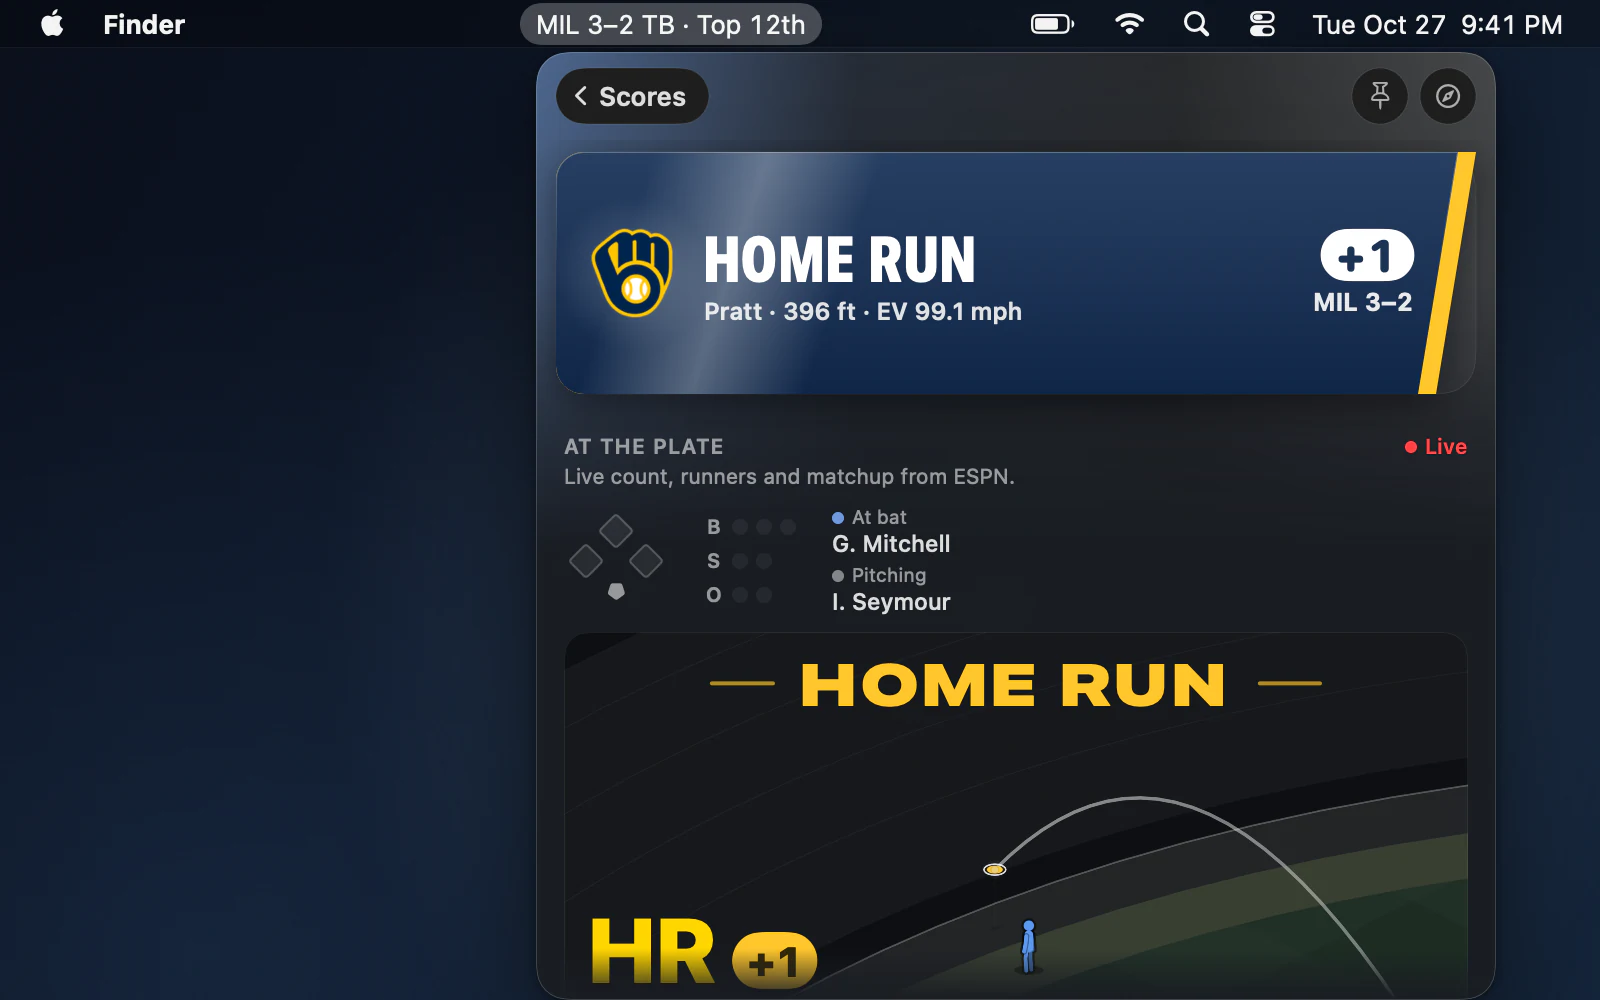
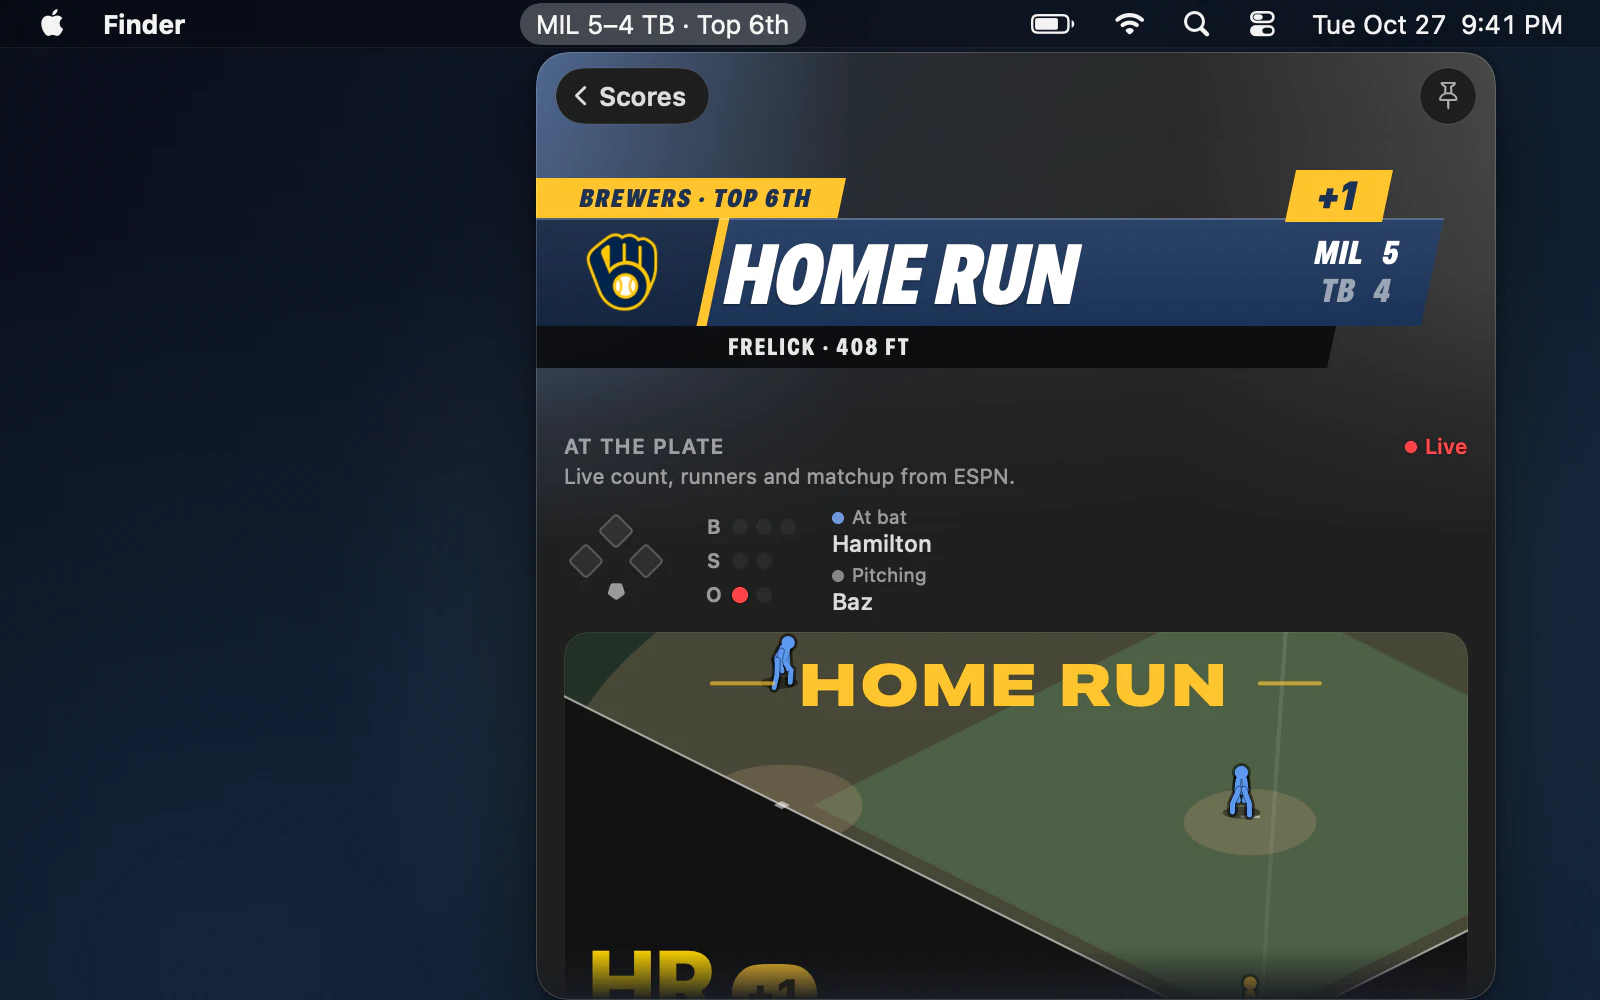
README: the scoring slide as a lower third
New screenshots of the slide (the tile and the page) from the app's own
renders, and the words to match.

Claude-Session: https://claude.ai/code/session_018S3HquSibFAw8QwmugU4Um

diff --git a/README.md b/README.md
@@ -46,11 +46,11 @@ Every play comes back to life in a small isometric view the moment it happens: t
 
 ## The scoring slide
 
-When a team scores, a bar in its colors slides in from its side of the page: its logo, a headline you can read from across the room (HOME RUN, GRAND SLAM, TOUCHDOWN, GOAL, BUZZER-BEATER, MAP WON) and who and how, straight from the feeds: "Pratt · 396 ft · EV 99.1 mph". It lands at the isometric view's climax, as the ball clears the fence or crosses the line, for runs, touchdowns, goals, the NBA's decisive baskets, CS2 maps and climbing tops.
+When a team scores, a broadcast lower third wipes in from its side of the page, in its colors: who and when (BREWERS · TOP 6TH), its logo, a headline you can read from across the room (HOME RUN, GRAND SLAM, TOUCHDOWN, GOAL, BUZZER-BEATER, MAP WON), the new score, and who and how, straight from the feeds: "Pratt · 396 ft · EV 99.1 mph". The scoreboard steps aside while it's up. It lands at the isometric view's climax, as the ball clears the fence or crosses the line, for runs, touchdowns, goals, the NBA's decisive baskets, CS2 maps and climbing tops.
 
 <!-- slot:scoring-slide:start -->
 <p align="center">
-  <picture><source media="(prefers-color-scheme: dark)" srcset="docs/screenshots/mac/scoring-slide-dark.webp"><img src="docs/screenshots/mac/scoring-slide-light.webp" width="100%" alt="The scoring slide: a home run's bar sliding in from the scoring team's side, in its colors, with who and how far"></picture>
+  <picture><source media="(prefers-color-scheme: dark)" srcset="docs/screenshots/mac/scoring-slide-dark.webp"><img src="docs/screenshots/mac/scoring-slide-light.webp" width="100%" alt="The scoring slide: a home run's broadcast lower third wiping in from the scoring team's side, in its colors, with who, when, how far and the new score"></picture>
 </p>
 <!-- slot:scoring-slide:end -->
 
